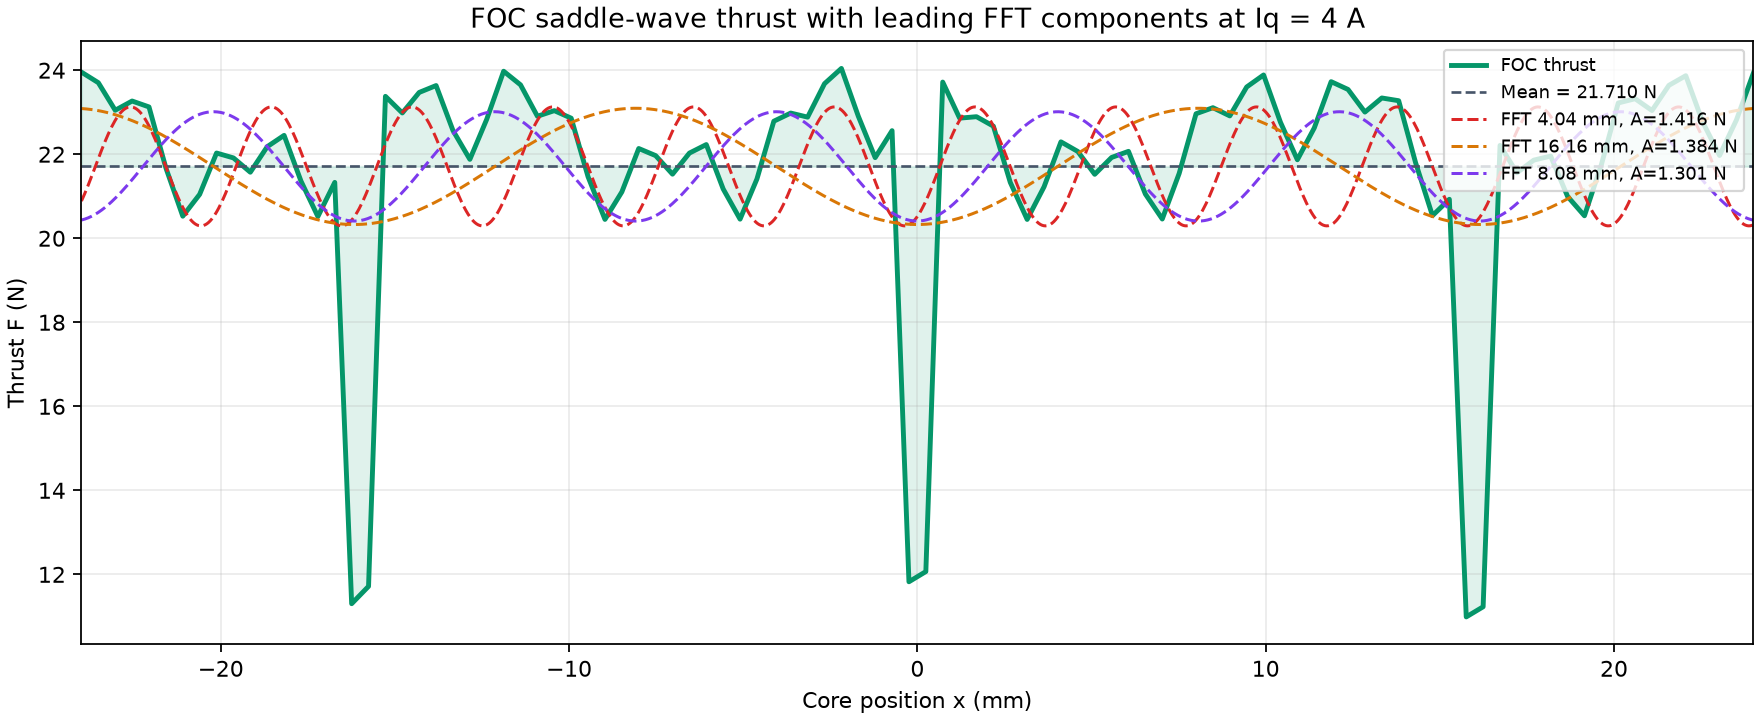
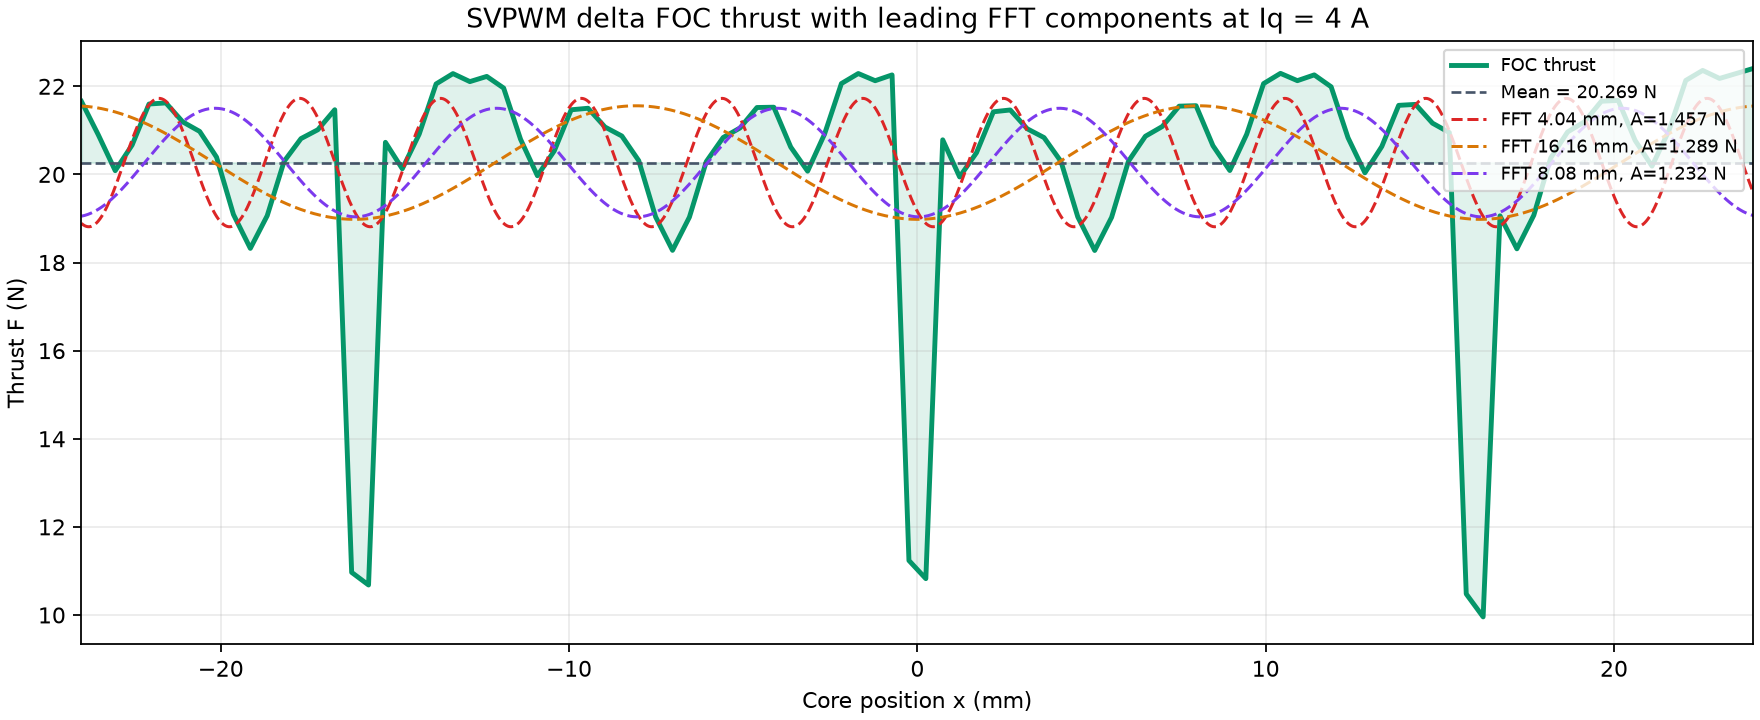
fix: model SVPWM delta winding currents

diff --git a/halbach_field_n52.html b/halbach_field_n52.html
@@ -49,7 +49,7 @@
     <div class="note"><span class="key">斜极取舍</span>：14.04° 的磁场基波系数约 0.955，适合推力优先；26.565° 的系数约 0.827，适合齿槽力优先。实际残余力由 B-H 曲线、端部磁通、加工与装配误差决定。</div>
     <div class="note">色图由二维磁矢势方程求解：DXF 闭合轮廓在网格内赋予 35W300 的线性 μr≈4000，气隙为 1 mm，磁铁厚度为 3 mm。铁芯绕其中心旋转 180°，齿顶位于磁铁顶面上方 1 mm。求解域随五组磁铁阵列扩展，四周采用远离模型的固定磁矢势边界；铁芯位于画面中心，左右侧磁铁单元数相同，所有磁铁块均绘制轮廓。</div>
     <div class="note">每种磁铁排布均提供 200 帧动画，展示铁芯按 -24 mm、+24 mm、-24 mm 的顺序往复运动。曲线使用 100 个单程位置点计算。白色箭头表示计算得到的齿槽力方向，箭头长度随力值绝对值变化，箭头上方显示当前位置与瞬时齿槽力。动画下方曲线给出齿槽力 F 随位置 x 的变化。</div>
-    <div class="note"><span class="key">FOC 推力模型</span>：三齿三相集中绕组，每相 266 匝、0.4 mm 线径、有效叠厚 16 mm。图中使用 Iq=4 A 峰值的三次谐波注入马鞍波电流；推力由各齿气隙磁链的位置导数与瞬时相电流相乘计算，未叠加齿槽力。结果为二维线性磁路与默认相序下的设计比较值。</div>
+    <div class="note"><span class="key">SVPWM Δ 接 FOC 推力模型</span>：三齿三相集中绕组，每相 266 匝、0.4 mm 线径、有效叠厚 16 mm。Iq=4 A 定义为 Δ 每个绕组支路的基波 q 轴峰值电流，对应线电流峰值约 6.93 A。SVPWM 注入的是零序电压以扩展调制范围；支路电流采用平衡基波，避免将三次谐波环流计入有效推力。推力由各齿气隙磁链的位置导数与瞬时相电流相乘计算，未叠加齿槽力。</div>
   </div>
 </main>
 <script type="application/json">
@@ -196,7 +196,7 @@ const forceCurve = document.querySelector('#forceCurve');
   const thrustCurve = document.querySelector('#thrustCurve');
 const mapLabel = document.querySelector('#mapLabel');
 const motionStatus = document.querySelector('#motionStatus');
-const animationRevision = 'roundtrip-24-v1-foc-fft-v1';
+const animationRevision = 'roundtrip-24-v1-svpwm-delta-v1';
 for (const button of document.querySelectorAll('.mapButton')) {
   button.onclick = () => {
     const map = fieldMaps[button.dataset.map];

diff --git a/cogging_fdm.py b/cogging_fdm.py
@@ -20,8 +20,6 @@ COIL_TURNS = 266
 ACTIVE_STACK_M = 16e-3
 IQ_PEAK_A = 4.0
 TOOTH_CENTERS = np.array([2.5, 18.5, 34.5])
-# A one-sixth third-harmonic injection gives the requested saddle-wave current.
-SADDLE_THIRD_HARMONIC = 1.0 / 6.0
 SINGLE_CORE = "--single-core" in sys.argv
 CORE_OTHER_SIDE = "--core-other-side" in sys.argv
 NO_SIDE = "--no-side" in sys.argv
@@ -291,8 +289,9 @@ if ANIMATE:
     # This keeps the q-axis current orthogonal to the actual finite-array field.
     d_axis = np.angle(np.sum(phase_flux_linkages * np.exp(-1j * electrical_angle), axis=0))
     current_angle = electrical_angle + d_axis
-    phase_currents = -(np.sin(current_angle) + SADDLE_THIRD_HARMONIC * np.sin(3 * current_angle))
-    phase_currents *= IQ_PEAK_A / np.max(np.abs(phase_currents))
+    # SVPWM adds common-mode voltage, while delta branch currents remain balanced
+    # fundamental q-axis currents. Iq here is the winding-branch peak current.
+    phase_currents = -IQ_PEAK_A * np.sin(current_angle)
     linkage_gradient = np.gradient(phase_flux_linkages, sample_positions * 1e-3, axis=0)
     thrust_samples = np.sum(phase_currents * linkage_gradient, axis=1)
     forces = np.concatenate((force_samples, force_samples[::-1]))
@@ -400,7 +399,7 @@ if ANIMATE:
             period_mm = sample_step * len(thrust_samples) / component_index
             thrust_axis.plot(display_positions, component, "--", color=color, linewidth=1.35, label=f"FFT {period_mm:.2f} mm, A={amplitude:.3f} N")
         thrust_axis.set(
-            title="FOC saddle-wave thrust with leading FFT components at Iq = 4 A",
+            title="SVPWM delta FOC thrust with leading FFT components at Iq = 4 A",
             xlabel="Core position x (mm)",
             ylabel="Thrust F (N)",
             xlim=(-24, 24),

diff --git a/.monkeycode/specs/foc-thrust-curve/design.md b/.monkeycode/specs/foc-thrust-curve/design.md
@@ -2,7 +2,7 @@
 
 求解器在每个铁芯位置取得气隙中 `z=3.25 mm` 的 `Bz`。每个齿的磁通由其 5 mm 齿宽上的数值积分与 16 mm 叠厚相乘得到，磁链为磁通乘以 266 匝。
 
-三个齿中心为 `2.5 mm`、`18.5 mm`、`34.5 mm`。求解器从每相磁链的基波相位识别 d 轴，电流保持在对应 q 轴，并使用 `sin(θ) + sin(3θ)/6` 的三次谐波注入波形，归一化到 `Iq=4 A` 峰值。位置差分获得磁链梯度，瞬时相电流与梯度的内积得到推力。
+三个齿中心为 `2.5 mm`、`18.5 mm`、`34.5 mm`。求解器从每相磁链的基波相位识别 d 轴，电流保持在对应 q 轴，并使用平衡基波支路电流 `Iq=4 A` 峰值。SVPWM 的零序电压注入不加入绕组支路电流；Δ 接法中的三次谐波会形成环流，无法形成有效 q 轴推力。位置差分获得磁链梯度，瞬时相电流与梯度的内积得到推力。
 
 该模型保留现有二维线性磁路、默认相序和有限阵列端部效应，适合相同结构间的推力与推力纹波比较。绕组实际相序、绕向、端部绕组与 B-H 非线性会影响实机绝对值。
 

diff --git a/.monkeycode/specs/foc-thrust-curve/requirements.md b/.monkeycode/specs/foc-thrust-curve/requirements.md
@@ -8,7 +8,7 @@
 
 - 系统应在三个 5 mm 齿顶气隙面计算磁通并换算三相磁链。
 - 系统应采用每相 266 匝、16 mm 有效叠厚和三相集中绕组模型。
-- 系统应采用三次谐波注入马鞍波电流，且相电流峰值为 4 A。
+- 系统应采用 SVPWM Δ 接法的平衡基波 q 轴支路电流，且每个绕组支路电流峰值为 4 A。
 - 系统应以 `F = Σ i_phase · dλ_phase/dx` 计算电磁推力。
 - 系统应为每种已展示的阵列输出独立 PNG，并在网页随方案切换。
 - 系统应叠加推力纹波中幅值最高的三个非直流 FFT 分量，并标注空间周期与幅值。
